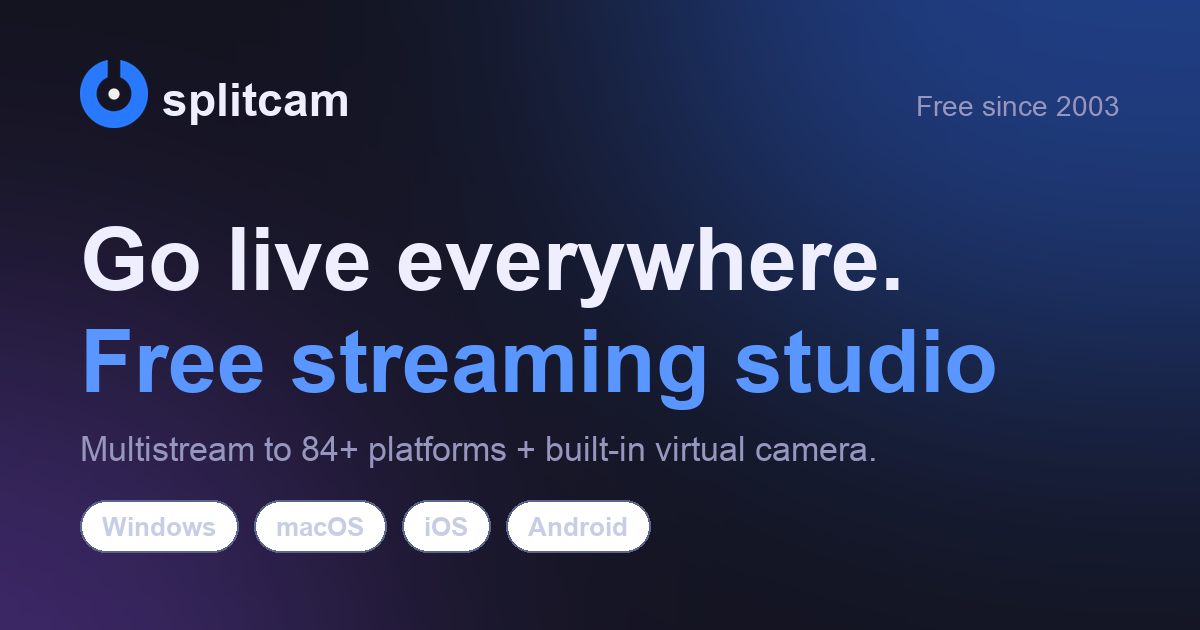
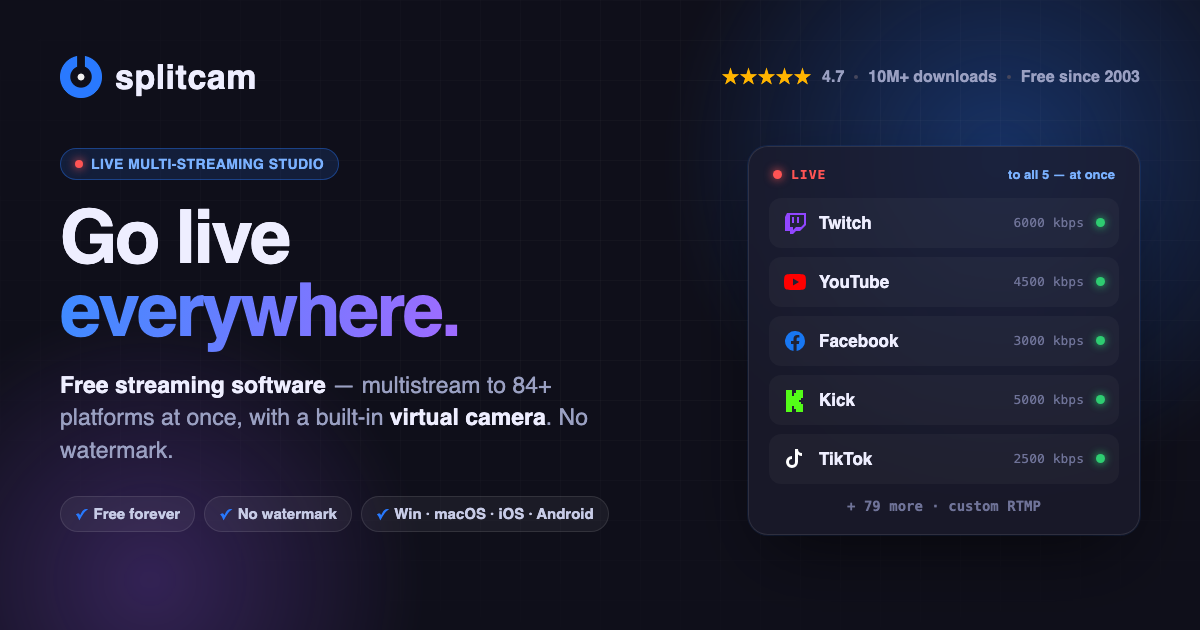
OG cover: redesign to a live-multistream scene (more dynamic, social proof)
Replaced the static "Go live everywhere / Free streaming studio" card
with a richer 1200×630 cover that shows the product's actual hook:

- Right side: a live "LIVE — to all 5 at once" card with Twitch,
  YouTube, Facebook, Kick and TikTok rows (real brand-coloured logos,
  bitrates, green live dots) + "+ 79 more · custom RTMP" — visualises
  simultaneous multistreaming at a glance.
- Top: ★ 4.7 · 10M+ downloads · Free since 2003 (social proof numbers
  that earn the click).
- Left: "Go live everywhere." + "Free streaming software — multistream
  to 84+ platforms at once, with a built-in virtual camera. No
  watermark." + Free forever / No watermark / OS badges.

Rendered from seo/og-builder.html (kept as the editable generator,
moved out of web root so it isn't served/indexed) via headless Chrome
at exact 1200×630.

diff --git a/seo/og-builder.html b/seo/og-builder.html
@@ -1,0 +1,84 @@
+<!DOCTYPE html>
+<html lang="en">
+<head>
+<meta charset="UTF-8">
+<link href="https://fonts.googleapis.com/css2?family=Geist:wght@400;500;600;700;800;900&family=Geist+Mono:wght@500;600&display=swap" rel="stylesheet">
+<style>
+*{margin:0;padding:0;box-sizing:border-box}
+:root{--blue:#2878fc;--purple:#9c5bff;--text:#eeeeff;--sub:#9aa0c2}
+body{margin:0}
+.og{position:relative;width:1200px;height:630px;overflow:hidden;background:#0f0f1a;font-family:'Geist',sans-serif;color:var(--text)}
+/* layered background glows */
+.og::before{content:'';position:absolute;width:760px;height:760px;right:-180px;top:-220px;background:radial-gradient(circle,rgba(40,120,252,.34),transparent 62%);filter:blur(8px)}
+.og::after{content:'';position:absolute;width:620px;height:620px;left:-160px;bottom:-260px;background:radial-gradient(circle,rgba(156,91,255,.26),transparent 62%);filter:blur(8px)}
+.grid{position:absolute;inset:0;background-image:linear-gradient(rgba(255,255,255,.025) 1px,transparent 1px),linear-gradient(90deg,rgba(255,255,255,.025) 1px,transparent 1px);background-size:40px 40px;mask:radial-gradient(ellipse 90% 80% at 60% 40%,#000 30%,transparent 80%)}
+.wrap{position:relative;z-index:2;height:100%;padding:56px 60px;display:flex;flex-direction:column}
+/* top bar */
+.top{display:flex;align-items:center;justify-content:space-between}
+.brand{display:flex;align-items:center;gap:13px}
+.brand img{width:42px;height:42px}
+.brand b{font-size:34px;font-weight:800;letter-spacing:.5px}
+.rating{display:flex;align-items:center;gap:10px;font-size:16px;color:var(--sub);font-weight:600}
+.rating .stars{color:#FFB400;font-size:17px;letter-spacing:1px}
+.rating .dot{width:4px;height:4px;border-radius:50%;background:#46465c}
+/* body */
+.body{flex:1;display:flex;align-items:center;gap:44px;margin-top:8px}
+.left{flex:1;min-width:0}
+.kick{display:inline-flex;align-items:center;gap:8px;padding:7px 14px;border-radius:99px;background:rgba(40,120,252,.14);border:1px solid rgba(40,120,252,.4);font-size:14px;font-weight:700;color:#7ab1ff;letter-spacing:.4px;margin-bottom:22px}
+.kick .live{width:8px;height:8px;border-radius:50%;background:#ff5454;box-shadow:0 0 10px #ff5454}
+h1{font-size:74px;font-weight:800;line-height:.98;letter-spacing:-2.6px}
+h1 .g{background:linear-gradient(100deg,#3d8bff,#a06bff);-webkit-background-clip:text;background-clip:text;-webkit-text-fill-color:transparent}
+.sub{margin-top:22px;font-size:23px;line-height:1.4;color:var(--sub);max-width:540px;font-weight:500}
+.sub b{color:var(--text);font-weight:700}
+.badges{display:flex;gap:9px;margin-top:30px;flex-wrap:wrap}
+.bdg{display:inline-flex;align-items:center;gap:7px;padding:8px 14px;border-radius:99px;background:rgba(255,255,255,.05);border:1px solid rgba(255,255,255,.1);font-size:15px;color:#c7cbe6;font-weight:600}
+.bdg .ck{color:var(--blue);font-weight:800}
+/* right: live multistream card */
+.card{width:392px;flex-shrink:0;background:rgba(28,28,46,.72);border:1px solid rgba(255,255,255,.1);border-radius:20px;padding:20px;backdrop-filter:blur(8px);box-shadow:0 30px 70px -20px rgba(0,0,0,.6),0 0 0 1px rgba(40,120,252,.12)}
+.card-h{display:flex;align-items:center;gap:9px;margin-bottom:16px;padding:0 4px}
+.card-h .ld{width:9px;height:9px;border-radius:50%;background:#ff5454;box-shadow:0 0 10px #ff5454}
+.card-h .lt{font-size:13px;font-weight:800;color:#ff5454;letter-spacing:1px;font-family:'Geist Mono',monospace}
+.card-h .li{font-size:13px;color:#7ab1ff;font-weight:600;margin-left:auto}
+.row{display:flex;align-items:center;gap:12px;padding:13px 14px;border-radius:12px;background:rgba(255,255,255,.035);margin-bottom:9px}
+.row:last-child{margin-bottom:0}
+.row svg{width:24px;height:24px;flex-shrink:0}
+.row .nm{font-size:17px;font-weight:700;flex:1}
+.row .kb{font-size:13px;color:#6f7398;font-family:'Geist Mono',monospace}
+.row .gl{width:9px;height:9px;border-radius:50%;background:#2ecc71;box-shadow:0 0 9px #2ecc71}
+.tw{color:#9146FF}.yt{color:#FF0000}.fb{color:#1877F2}.kk{color:#53FC18}.tt{color:#fff}
+.more{text-align:center;font-size:14px;color:#6f7398;font-weight:600;padding-top:5px;font-family:'Geist Mono',monospace}
+</style>
+</head>
+<body>
+<div class="og">
+  <div class="grid"></div>
+  <div class="wrap">
+    <div class="top">
+      <div class="brand"><img src="../assets/splitcam.png" alt=""><b>splitcam</b></div>
+      <div class="rating"><span class="stars">★★★★★</span><span>4.7</span><span class="dot"></span><span>10M+ downloads</span><span class="dot"></span><span>Free since 2003</span></div>
+    </div>
+    <div class="body">
+      <div class="left">
+        <div class="kick"><span class="live"></span>LIVE MULTI-STREAMING STUDIO</div>
+        <h1>Go live<br><span class="g">everywhere.</span></h1>
+        <p class="sub"><b>Free streaming software</b> — multistream to 84+ platforms at once, with a built-in <b>virtual camera</b>. No watermark.</p>
+        <div class="badges">
+          <span class="bdg"><span class="ck">✓</span> Free forever</span>
+          <span class="bdg"><span class="ck">✓</span> No watermark</span>
+          <span class="bdg"><span class="ck">✓</span> Win · macOS · iOS · Android</span>
+        </div>
+      </div>
+      <div class="card">
+        <div class="card-h"><span class="ld"></span><span class="lt">LIVE</span><span class="li">to all 5 — at once</span></div>
+        <div class="row"><svg class="tw" viewBox="0 0 24 24" fill="currentColor"><path d="M4 2 2 6v14h5v3h3l3-3h4l6-6V2H4zm17 11-3 3h-5l-3 3v-3H7V4h14v9zm-5-7h-2v6h2V6zm-5 0H9v6h2V6z"/></svg><span class="nm">Twitch</span><span class="kb">6000 kbps</span><span class="gl"></span></div>
+        <div class="row"><svg class="yt" viewBox="0 0 24 24" fill="currentColor"><path d="M22.5 6.5a3 3 0 0 0-2-2C18.5 4 12 4 12 4s-6.5 0-8.5.5a3 3 0 0 0-2 2C1 8.5 1 12 1 12s0 3.5.5 5.5a3 3 0 0 0 2 2C5.5 20 12 20 12 20s6.5 0 8.5-.5a3 3 0 0 0 2-2c.5-2 .5-5.5.5-5.5s0-3.5-.5-5.5zM10 15.5v-7l6 3.5-6 3.5z"/></svg><span class="nm">YouTube</span><span class="kb">4500 kbps</span><span class="gl"></span></div>
+        <div class="row"><svg class="fb" viewBox="0 0 24 24" fill="currentColor"><path d="M22 12a10 10 0 1 0-11.5 9.9V15h-2.5v-3h2.5V9.8c0-2.5 1.5-3.8 3.7-3.8 1 0 2.2.2 2.2.2v2.4h-1.2c-1.2 0-1.6.7-1.6 1.5V12h2.7l-.4 3h-2.3v6.9A10 10 0 0 0 22 12z"/></svg><span class="nm">Facebook</span><span class="kb">3000 kbps</span><span class="gl"></span></div>
+        <div class="row"><svg class="kk" viewBox="0 0 24 24" fill="currentColor"><path d="M3 2h6v6h2V5h2V2h7v8h-2v2h-2v2h2v2h2v8h-7v-3h-2v-3H9v6H3V2z"/></svg><span class="nm">Kick</span><span class="kb">5000 kbps</span><span class="gl"></span></div>
+        <div class="row"><svg class="tt" viewBox="0 0 24 24" fill="currentColor"><path d="M19 9a6 6 0 0 1-4-1.5V15a6 6 0 1 1-6-6v3a3 3 0 1 0 3 3V2h3a4 4 0 0 0 4 4v3z"/></svg><span class="nm">TikTok</span><span class="kb">2500 kbps</span><span class="gl"></span></div>
+        <div class="more">+ 79 more · custom RTMP</div>
+      </div>
+    </div>
+  </div>
+</div>
+</body>
+</html>
